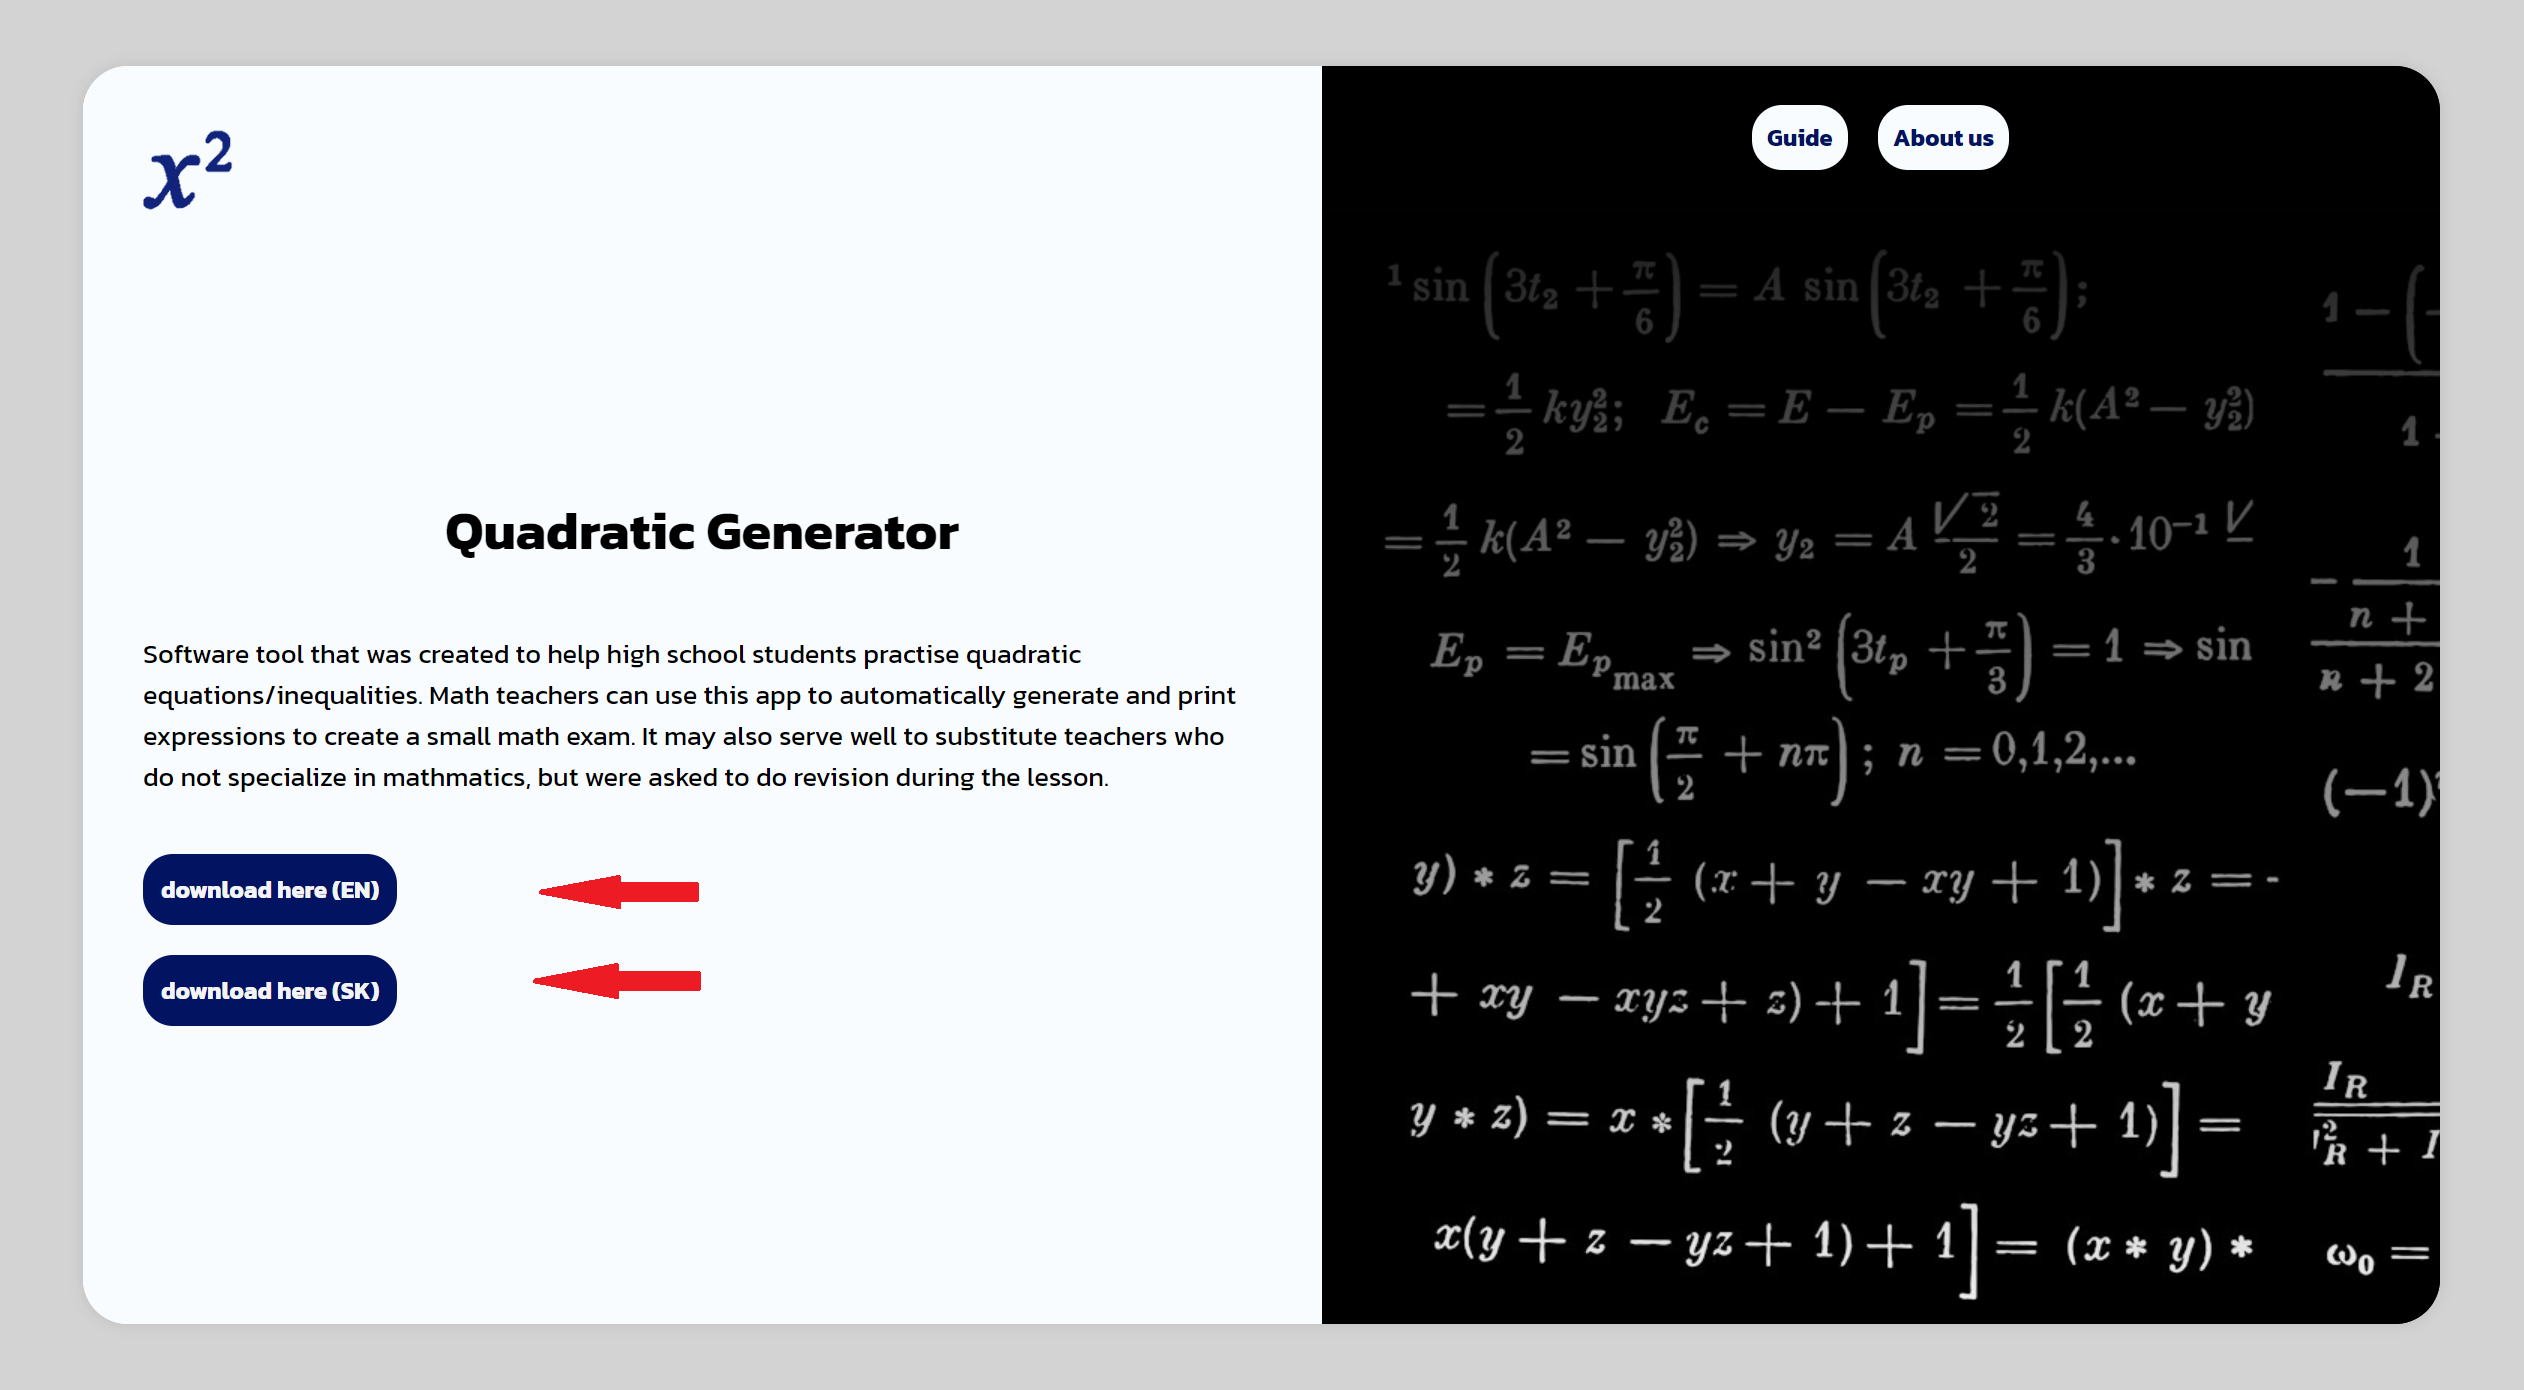
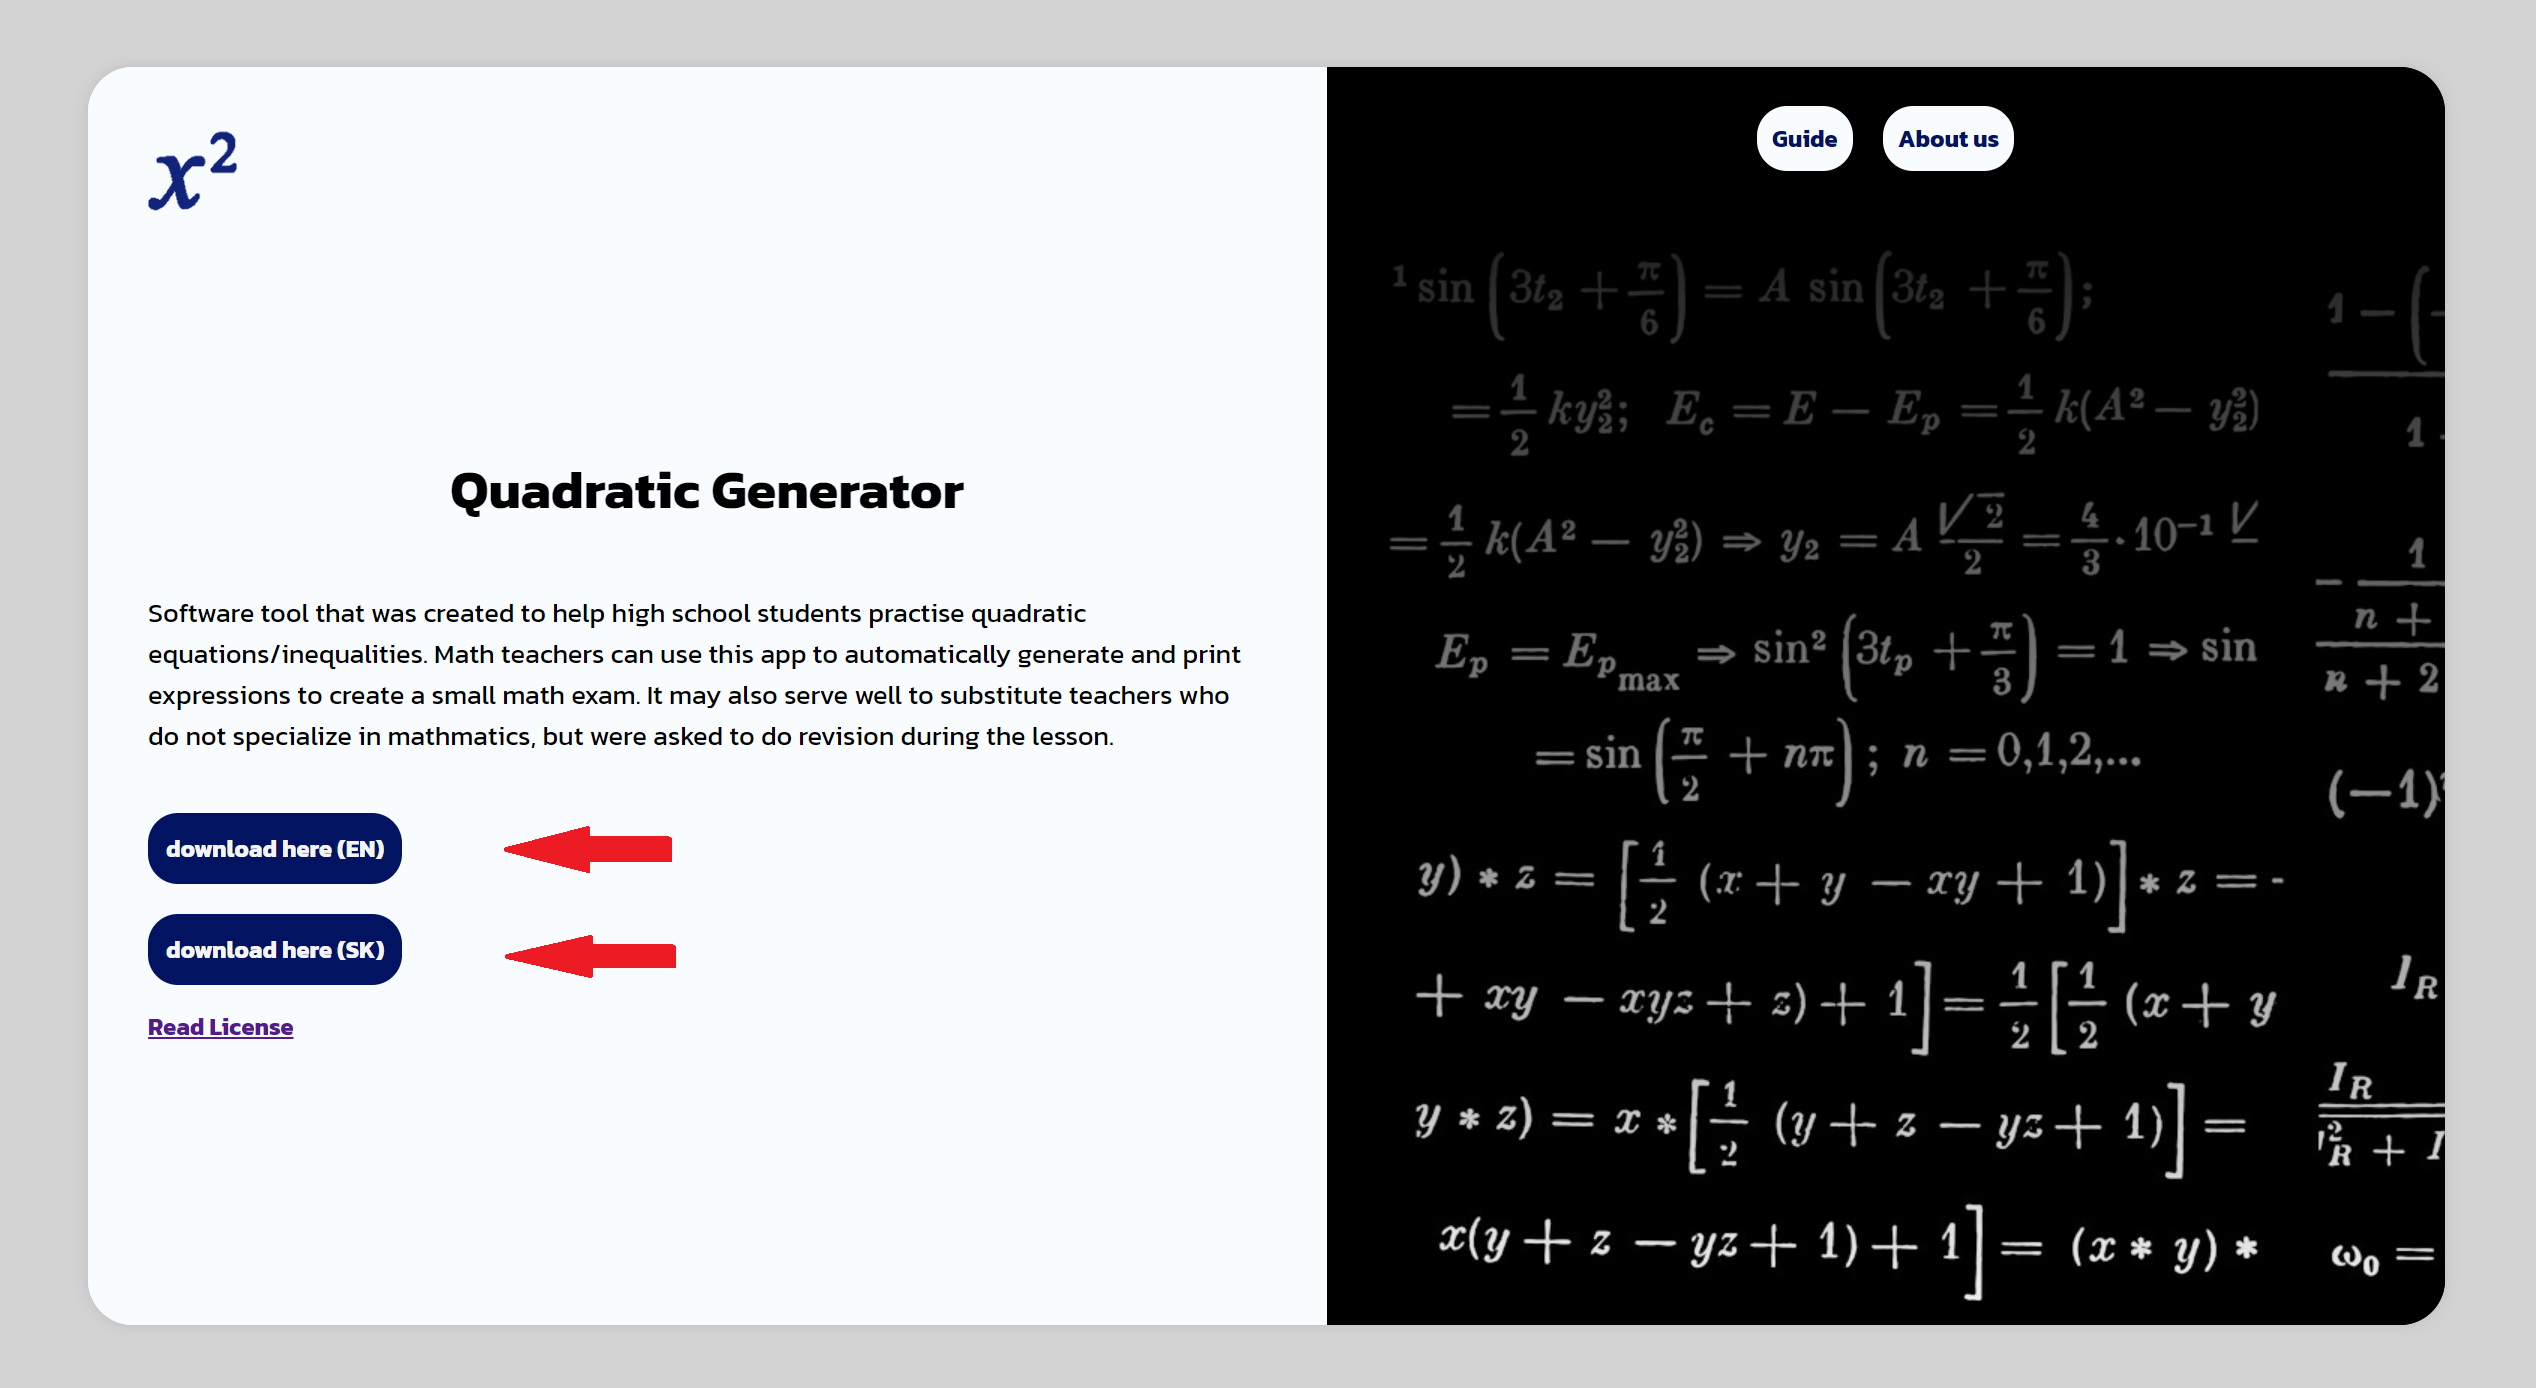
License added

diff --git a/Website/guide.html b/Website/guide.html
@@ -22,10 +22,18 @@
     <div class="container">
         <div class="steps">
             <div class="image">
+                <img src="Img/step-0.png" alt="">
+            </div>
+            <div class="text">
+                <h3>1. Before installing Quadratic Generator, make sure to read and comply with the license</h3>
+            </div>
+        </div>
+        <div class="steps">
+            <div class="image">
                 <img src="Img/step-1.png" alt="">
             </div>
             <div class="text">
-                <h3>1. Choose the prefered language variation and download the application - 150MB (works only for Windows)</h3>
+                <h3>2. Choose the prefered language variation and download the application - 150MB (works only for Windows)</h3>
             </div>
         </div>
         <div class="steps">
@@ -33,7 +41,7 @@
                 <img src="Img/step-2.png" alt="">
             </div>
             <div class="text">
-                <h3>2. In the top-right corner click on the downloaded zip file. Navigate to Quadratic-Generator-(EN/SK) -> dist -> main.exe</h3>
+                <h3>3. In the top-right corner click on the downloaded zip file. Navigate to Quadratic-Generator-(EN/SK) -> dist -> main.exe</h3>
             </div>
         </div>
         <div class="steps">
@@ -41,7 +49,7 @@
                 <img src="Img/step-3.png" alt="">
             </div>
             <div class="text">
-                <h3>3. If this warning occurs, choose the option: Extract all. Afterwards repeat the navigation procedure in the step 2</h3>
+                <h3>4. If this warning occurs, choose the option: Extract all. Afterwards repeat the navigation procedure in the step 2</h3>
             </div>
         </div>
         <div class="steps">
@@ -49,7 +57,7 @@
                 <img src="Img/step-4.png" alt="">
             </div>
             <div class="text">
-                <h3>4. This is the menu. Here you choose what type of expression you want and other details like quantity and type</h3>
+                <h3>5. This is the menu. Here you choose what type of expression you want and other details like quantity and type</h3>
             </div>
         </div>
         <div class="steps">
@@ -57,7 +65,7 @@
                 <img src="Img/step-5.png" alt="">
             </div>
             <div class="text">
-                <h3>5. After specifying your desired outcome, click the "Generate" button</h3>
+                <h3>6. After specifying your desired outcome, click the "Generate" button</h3>
             </div>
         </div>
         <div class="steps">
@@ -65,7 +73,7 @@
                 <img src="Img/step-6.png" alt="">
             </div>
             <div class="text">
-                <h3>6. Select an expression. Then, you may choose from multiple options</h3>
+                <h3>7. Select an expression. Then, you may choose from multiple options</h3>
             </div>
         </div>
         <div class="steps">
@@ -73,7 +81,7 @@
                 <img src="Img/step-7.png" alt="">
             </div>
             <div class="text">
-                <h3>7. If you wish to see the solution of the selected expression, press the "Show Solution" button</h3>
+                <h3>8. If you wish to see the solution of the selected expression, press the "Show Solution" button</h3>
             </div>
         </div>
         <div class="steps">
@@ -81,7 +89,7 @@
                 <img src="Img/step-8.png" alt="">
             </div>
             <div class="text">
-                <h3>8. If you wish to see the explanation, press the "Explanation" button. You may also choose what solving method you would like to see</h3>
+                <h3>9. If you wish to see the explanation, press the "Explanation" button. You may also choose what solving method you would like to see</h3>
             </div>
         </div>
         <div class="steps">
@@ -89,7 +97,7 @@
                 <img src="Img/step-9.png" alt="">
             </div>
             <div class="text">
-                <h3>9. If you would like to print the problems on a paper, you may do so by clicking the "print it!" button at the bottom</h3>
+                <h3>10. If you would like to print the problems on a paper, you may do so by clicking the "print it!" button at the bottom</h3>
             </div>
         </div>
     </div>

diff --git a/Website/license.html b/Website/license.html
@@ -1,0 +1,34 @@
+<!DOCTYPE html>
+<html lang="en">
+
+<head>
+    <meta charset="UTF-8">
+    <meta name="viewport" content="width=device-width, initial-scale=1.0">
+    <title>License - Quadratic Generator</title>
+    <link rel="stylesheet" href="styles.css">
+    <link rel="preconnect" href="https://fonts.googleapis.com">
+    <link rel="preconnect" href="https://fonts.gstatic.com" crossorigin>
+    <link href="https://fonts.googleapis.com/css2?family=Kanit:wght@400;600&display=swap" rel="stylesheet">
+</head>
+
+<body>
+    <div class="container">
+        <h1>License</h1>
+
+        <h2>Non-commercial use:</h2>
+        <p>You are free to use the Quadratic Generator for non-commercial purposes without any restrictions.</p>
+
+        <h2>Commercial use:</h2>
+        <p>If you intend to use the Quadratic Generator in any commercial capacity (e.g., within a product or service that generates revenue), you must:</p>
+        <ul>
+            <li>Notify us of your commercial use via email at <a href="mailto:juro.kopiciar@gmail.com" class="email-link">juro.kopiciar@gmail.com</a></li>
+            <li>Attribute the use of the Quadratic Generator by including the following credit: <strong>"Powered by Quadratic Generator"</strong> with a link to <a href="https://kvadratickygenerator.zochova.eu" target="_blank">kvadratickygenerator.zochova.eu</a></li>
+        </ul>
+
+        <h2>Disclaimer:</h2>
+        <p>The Quadratic Generator is provided "as is," without any warranty of any kind, express or implied. The creators are not liable for any damages arising from its use.</p>
+
+    </div>
+</body>
+
+</html>

diff --git a/Website/css/styleLI.css b/Website/css/styleLI.css
@@ -1,0 +1,63 @@
+body {
+    font-family: 'Kanit', sans-serif;
+    background-color: #f4f4f4;
+    margin: 0;
+    padding: 0;
+    display: flex;
+    justify-content: center;
+    align-items: center;
+    min-height: 100vh;
+}
+
+.container {
+    max-width: 800px;
+    margin: 20px;
+    background-color: #ffffff;
+    padding: 30px;
+    border-radius: 10px;
+    box-shadow: 0 4px 8px rgba(0, 0, 0, 0.1);
+    line-height: 1.6;
+}
+
+h1 {
+    text-align: center;
+    font-size: 2em;
+    margin-bottom: 20px;
+    color: #2C3E50;
+}
+
+h2 {
+    color: #2980B9;
+    margin-top: 20px;
+    font-size: 1.4em;
+}
+
+p {
+    font-size: 1.1em;
+    color: #34495E;
+}
+
+ul {
+    list-style: disc;
+    padding-left: 20px;
+}
+
+a {
+    color: #2980B9;
+    text-decoration: none;
+}
+
+a:hover {
+    text-decoration: underline;
+}
+
+.email-link {
+    color: #E74C3C;
+}
+
+footer {
+    text-align: center;
+    margin-top: 30px;
+    font-size: 0.9em;
+    color: #7f8c8d;
+}

diff --git a/Website/index.html b/Website/index.html
@@ -27,14 +27,22 @@
                         expressions to create a small math exam. It may also serve well to substitute teachers who do
                         not specialize in mathmatics, but were asked to do revision during the lesson.</p>
                 </div>
+
                 <div class="download">
                     <a href="Quadratic-Generator-EN.zip" download > <b>download here (EN)</b></a>
-
                 </div>
+
                 <div class="download">
                     <a href="Quadratic-Generator-SK.zip" download > <b>download here (SK)</b></a>
-
                 </div>
+
+                <div class="license">
+                    <p><a href="license.html"><b>Read License</b></a></p>
+                </div>
+
+
+
+                
             </div>
             <div class="3.obj">
 

diff --git a/Website/css/style.css b/Website/css/style.css
@@ -110,6 +110,9 @@ body{
     cursor: pointer;
 }
 
+
+
+
 @media (max-width: 600px) {
     body {
         font-size: small;
